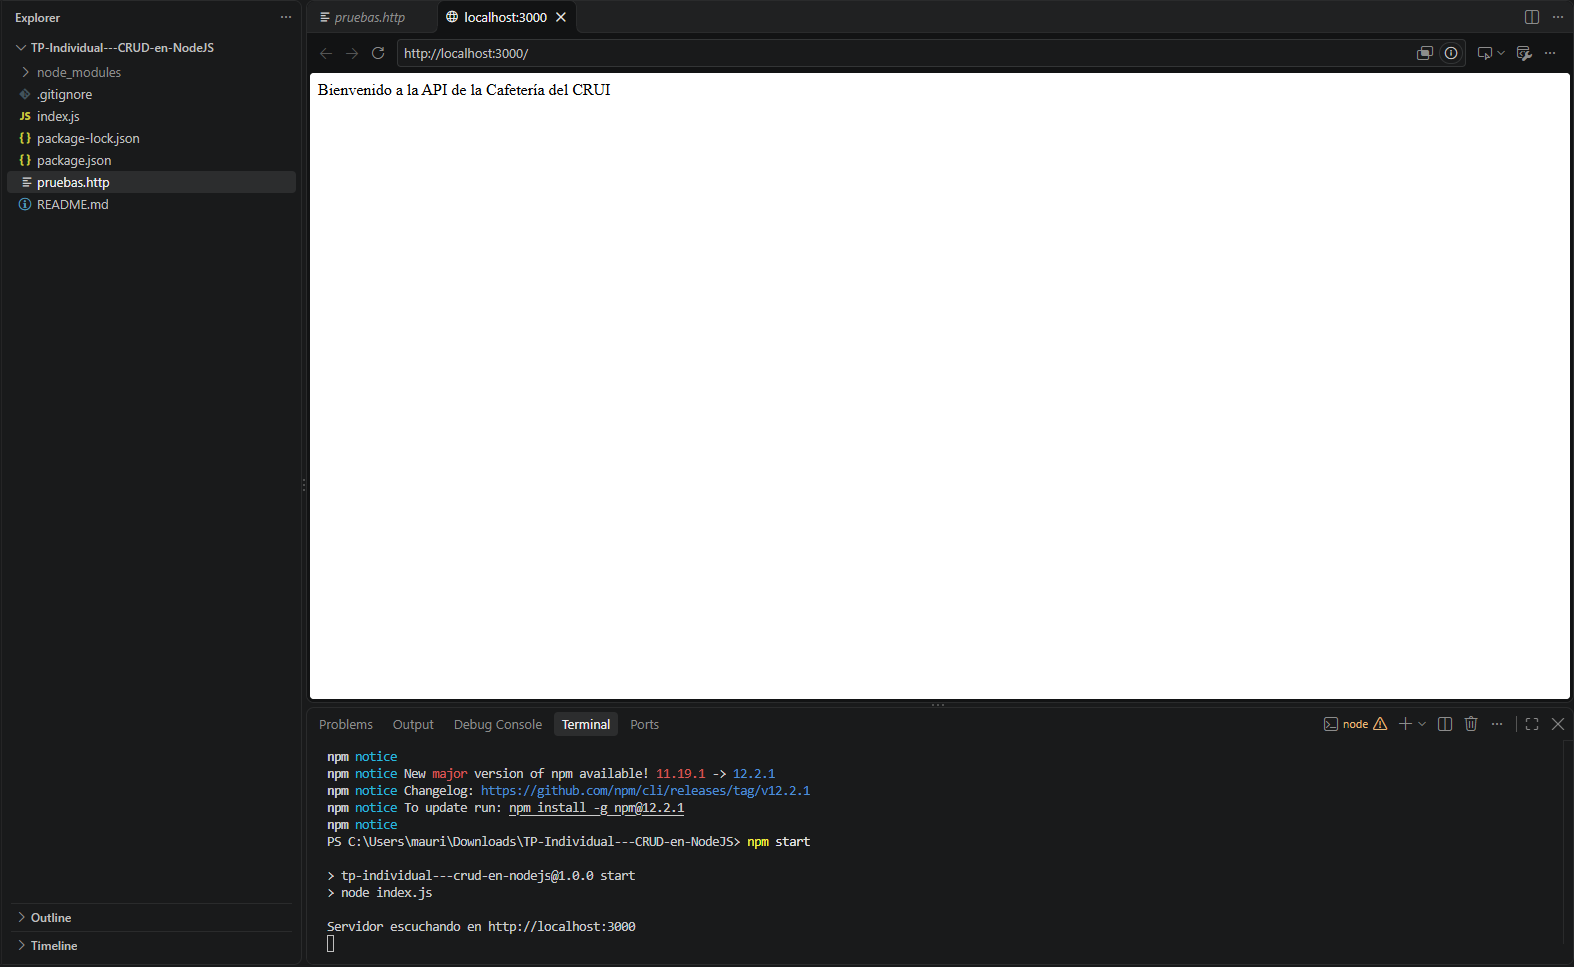
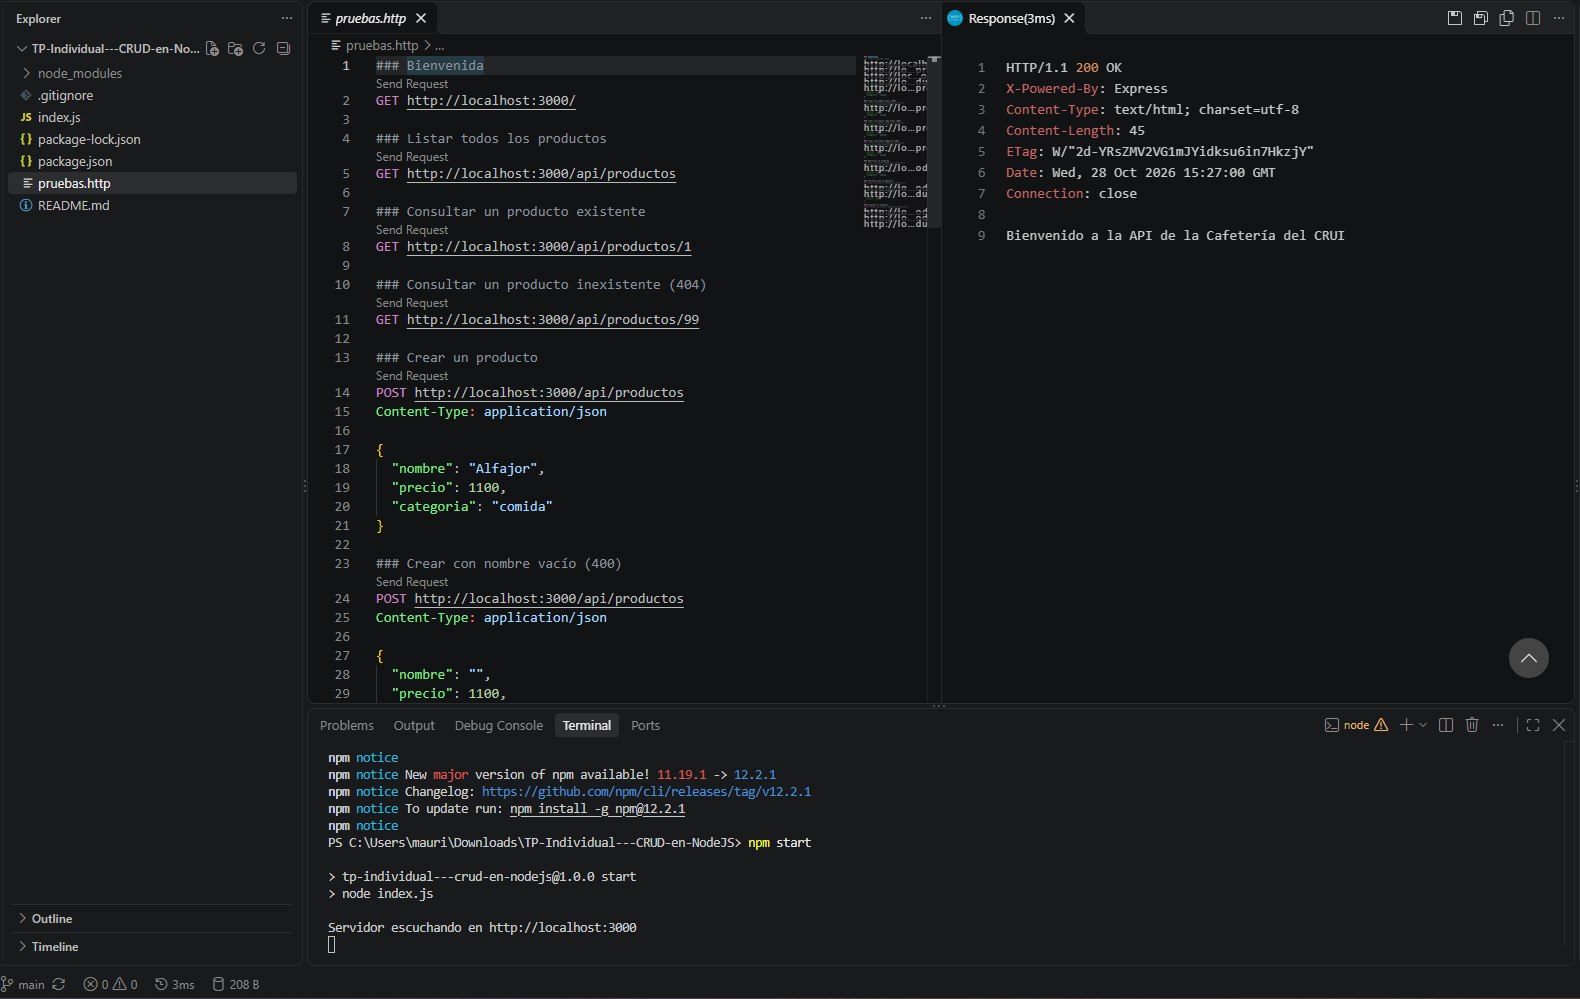
Actualizo captura de la ruta de bienvenida

diff --git a/README.md b/README.md
@@ -58,8 +58,6 @@ El archivo `pruebas.http` tiene todas las peticiones de prueba y se puede ejecut
 
 ### Capturas
 
-<!-- Agregar las capturas en la carpeta capturas/ -->
-
 **GET /** — mensaje de bienvenida (200)
 
 ![Bienvenida](capturas/01-bienvenida-200.png)
